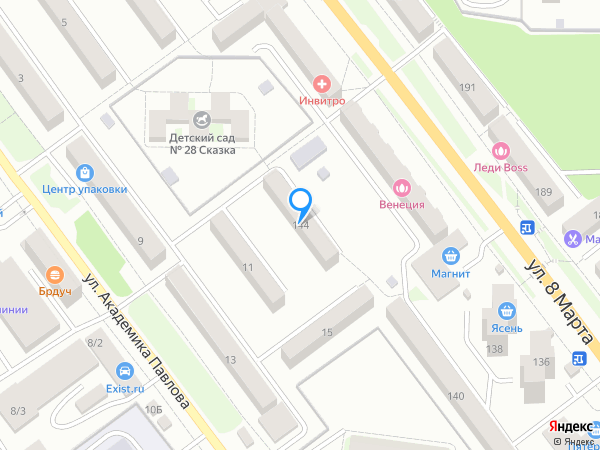
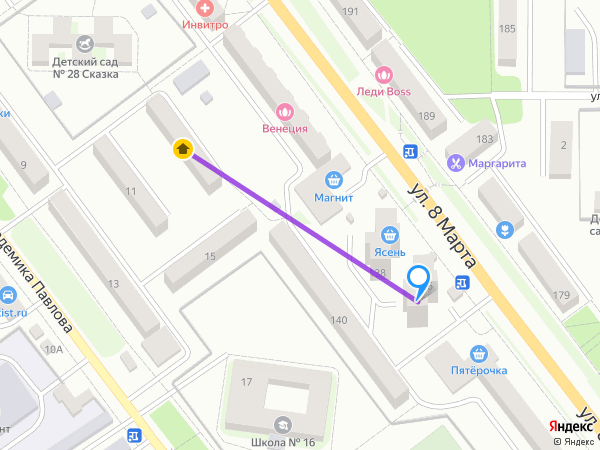
finally

diff --git a/map.py b/map.py
@@ -4,22 +4,38 @@ from io import BytesIO
 from PIL import Image
 
 
-def get_img(coords):
+def get_img(coords, scoords):
     delta = '0.002'
     map_server = 'https://static-maps.yandex.ru/1.x/'
-    params = {'ll': ','.join(coords),
-              'spn': ','.join([delta, delta]),
+    params = {'spn': ','.join([delta, delta]),
               'l': 'map',
-              'pt': f"{','.join(coords)},org"}
+              'pt': f"{','.join(coords)},org~{','.join(scoords)},home",
+              'pl': f"{','.join(coords)},{','.join(scoords)}"}
     response = requests.get(map_server, params=params)
     Image.open(BytesIO(response.content)).save('map.png')
     return 'map.png'
 
 
-def show_map(map):
+def show_map(mapp, rast, ul, name, rab):
     pygame.init()
     screen = pygame.display.set_mode((600, 450))
-    screen.blit(pygame.image.load(map), (0, 0))
+    f1 = pygame.font.Font(None, 36)
+    text1 = f1.render(name, True,
+                      (180, 0, 0))
+    f2 = pygame.font.Font(None, 36)
+    text2 = f2.render(ul, True,
+                      (180, 0, 0))
+    f3 = pygame.font.Font(None, 36)
+    text3 = f3.render(rab, True,
+                      (180, 0, 0))
+    f4 = pygame.font.Font(None, 36)
+    text4 = f4.render(f'{rast} м', True,
+                      (180, 0, 0))
+    screen.blit(pygame.image.load(mapp), (0, 0))
+    screen.blit(text1, (0, 0))
+    screen.blit(text2, (0, 30))
+    screen.blit(text3, (0, 60))
+    screen.blit(text4, (0, 90))
     pygame.display.flip()
     while pygame.event.wait().type != pygame.QUIT:
         pass

diff --git a/main.py b/main.py
@@ -1,4 +1,7 @@
 import sys
+from pprint import pprint
+from geopy.distance import great_circle as GC
+
 from geocoder import get_coords
 from map import get_img, show_map
 from find_business import find_bis
@@ -8,10 +11,12 @@ def main():
     toponym_to_find = ' '.join(sys.argv[1:])
     if toponym_to_find:
         lat, lon = get_coords(toponym_to_find)
-        find_bis(','.join((lat, lon)),
+        res_find = find_bis(','.join((lat, lon)),
                  '0.005',
                  'Аптека')
-        show_map(get_img((lat, lon)))
+        rast = GC(tuple(map(float, (lat, lon))), res_find[0]).m
+        pprint(res_find)
+        show_map(get_img(res_find[0], (lat, lon)), str(round(rast)), res_find[1], res_find[2], res_find[3])
 
 
 if __name__ == '__main__':

diff --git a/find_business.py b/find_business.py
@@ -1,4 +1,5 @@
 import requests
+from pprint import pprint
 
 
 def find_bis(ll, spn, request, locale="ru_RU"):
@@ -11,5 +12,7 @@ def find_bis(ll, spn, request, locale="ru_RU"):
               'spn': ','.join((spn, spn)),
               'type': 'biz'}
     response = requests.get(server, params=params).json()
-    print(response)
-    return response
+    return [tuple(map(str, response['features'][0]['geometry']['coordinates'])),
+            response['features'][0]['properties']['description'],
+            response['features'][0]['properties']['CompanyMetaData']['name'],
+            response['features'][0]['properties']['CompanyMetaData']['Hours']['text']]

diff --git a/geocoder.py b/geocoder.py
@@ -29,5 +29,5 @@ def get_ll(address):
     top = geocode(address)
     if not top:
         return None, None
-    coords = top['Point']['pos']
+    return top['Point']['pos']
 
